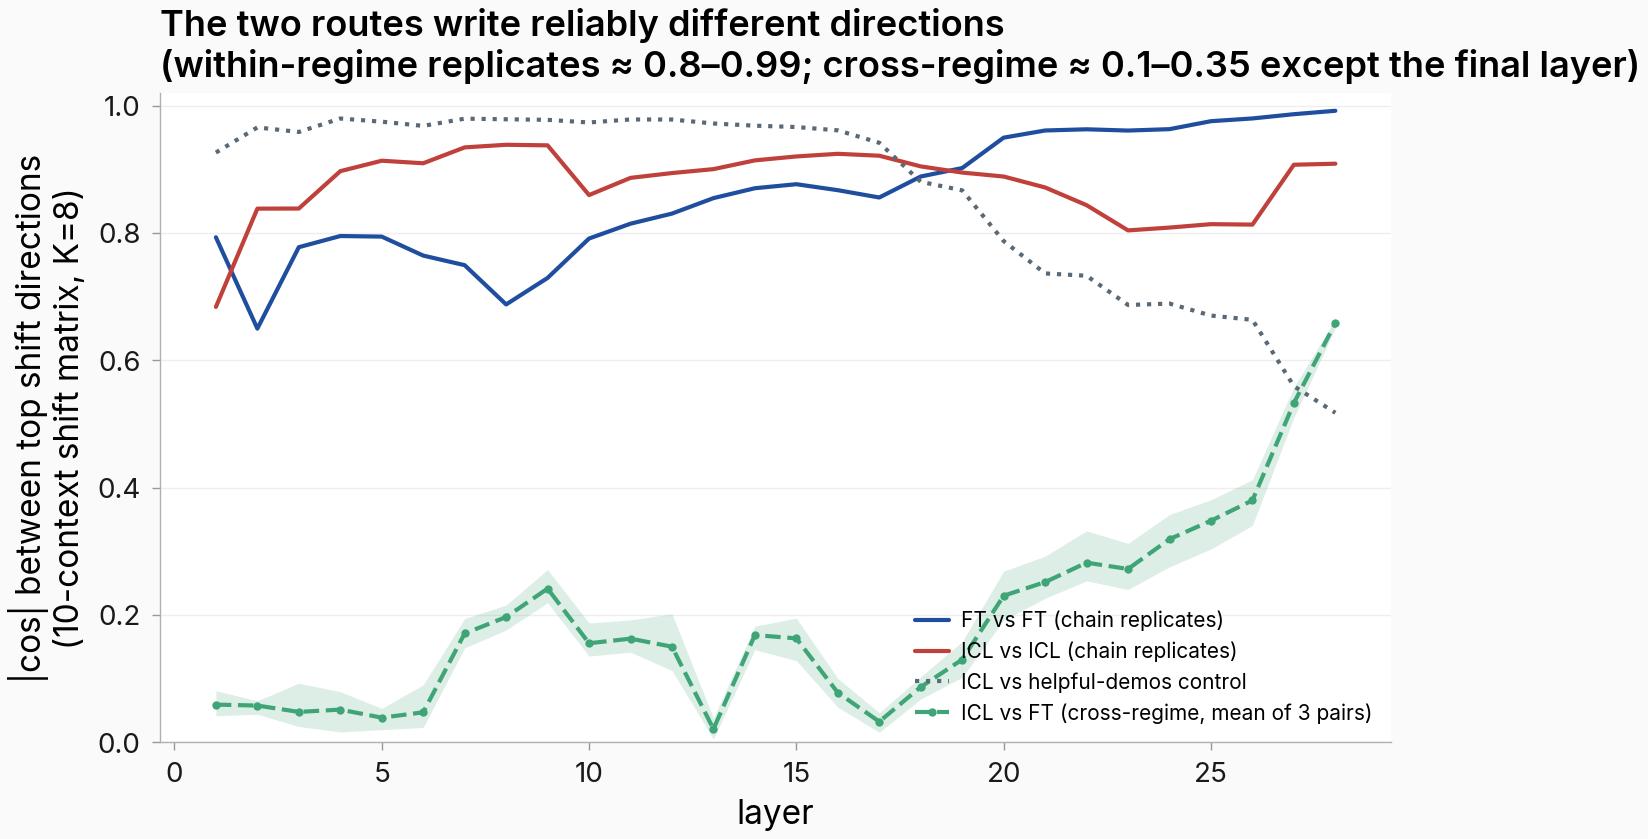
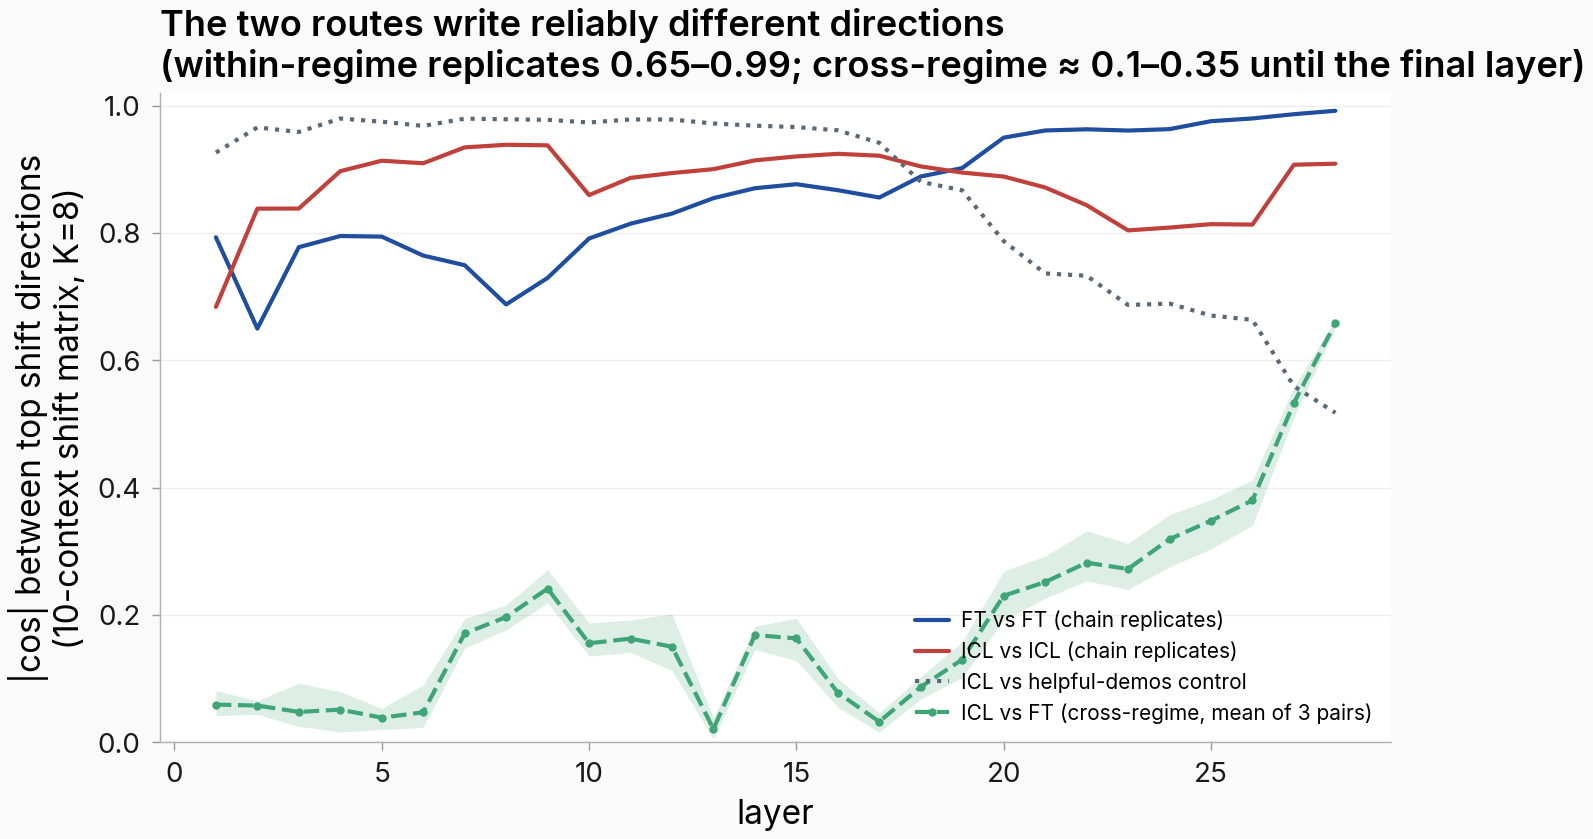
task #491 round 5: regen gate_scatter_l19 (xlim clipped helpful point; per-panel label offsets) + h2_geometry_layers title (replicate ceilings 0.65-0.99)

diff --git a/src/explore_persona_space/experiments/icl_vs_ft_491/figures_analyzer.py b/src/explore_persona_space/experiments/icl_vs_ft_491/figures_analyzer.py
@@ -96,20 +96,34 @@ def gate_scatter_l19() -> None:
 
     fig, axes = plt.subplots(1, 2, figsize=(11.0, 4.6))
     fig.subplots_adjust(wspace=0.28)
-    label_offsets = {
-        "hero": (-6, 5),
+    # Per-panel label offsets: the two panels have very different y-geometry
+    # (FT spans ~6.7-16 nat, ICL compresses into ~15-19 nat), so one shared
+    # offset dict produced collisions in the ICL panel (round-1 critique).
+    ft_offsets = {
+        "hero": (-6, 4),
+        "police_officer": (5, -3),
+        "comedian": (-6, 3),
+        "lawyer": (5, 2),
+        "medical_doctor": (6, -7),
+        "software_engineer": (-6, -9),
+        "kindergarten_teacher": (6, 3),
+        "no_system": (5, -2),
+        "helpful": (5, -2),
+    }
+    icl_offsets = {
+        "hero": (6, -2),
         "police_officer": (5, -3),
         "comedian": (5, -3),
-        "lawyer": (5, 2),
-        "medical_doctor": (5, 2),
-        "software_engineer": (-10, 6),
-        "kindergarten_teacher": (5, -8),
-        "no_system": (5, 2),
-        "helpful": (5, 2),
+        "lawyer": (5, -2),
+        "medical_doctor": (-6, -2),
+        "software_engineer": (5, -3),
+        "kindergarten_teacher": (5, -9),
+        "no_system": (5, -2),
+        "helpful": (6, 2),
     }
-    for ax, prof, title, color_role in (
-        (axes[0], ft_mean, "Finetuned on the K examples", "primary"),
-        (axes[1], icl_mean, "Same K examples in-context", "accent"),
+    for ax, prof, title, color_role, label_offsets in (
+        (axes[0], ft_mean, "Finetuned on the K examples", "primary", ft_offsets),
+        (axes[1], icl_mean, "Same K examples in-context", "accent", icl_offsets),
     ):
         color = paper_palette_role(color_role)
         xs = [g[c] for c in NONSRC]
@@ -131,7 +145,9 @@ def gate_scatter_l19() -> None:
             fontsize=10,
         )
         ax.set_xlabel("base-model similarity to villain context\n(cos at layer 19, pre-response)")
-        ax.set_xlim(0.845, 1.02)
+        # xlim must include EVERY panel point: 0.845 clipped the helpful
+        # context (gate cos 0.8349) out of both panels (round-1 critique).
+        ax.set_xlim(0.822, 1.018)
         for c in NONSRC:
             dx, dy = label_offsets.get(c, (5, 2))
             ax.annotate(
@@ -334,7 +350,7 @@ def h2_geometry_layers() -> None:
     ax.legend(fontsize=7.5, loc="lower right")
     ax.set_title(
         "The two routes write reliably different directions\n"
-        "(within-regime replicates ≈ 0.8–0.99; cross-regime ≈ 0.1–0.35 except the final layer)"
+        "(within-regime replicates 0.65–0.99; cross-regime ≈ 0.1–0.35 until the final layer)"
     )
     _save(fig, "h2_geometry_layers")
     plt.close(fig)
